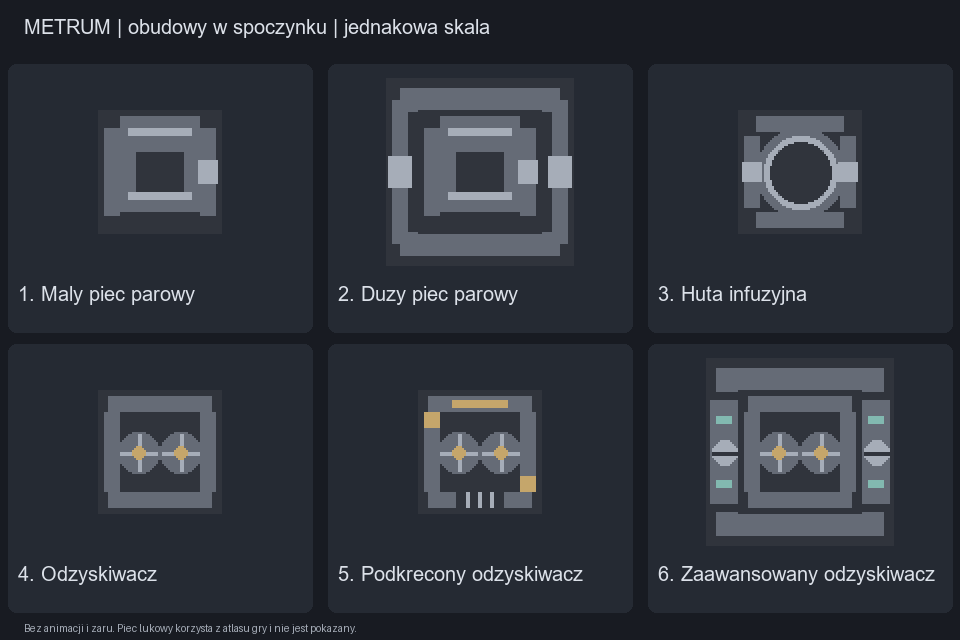
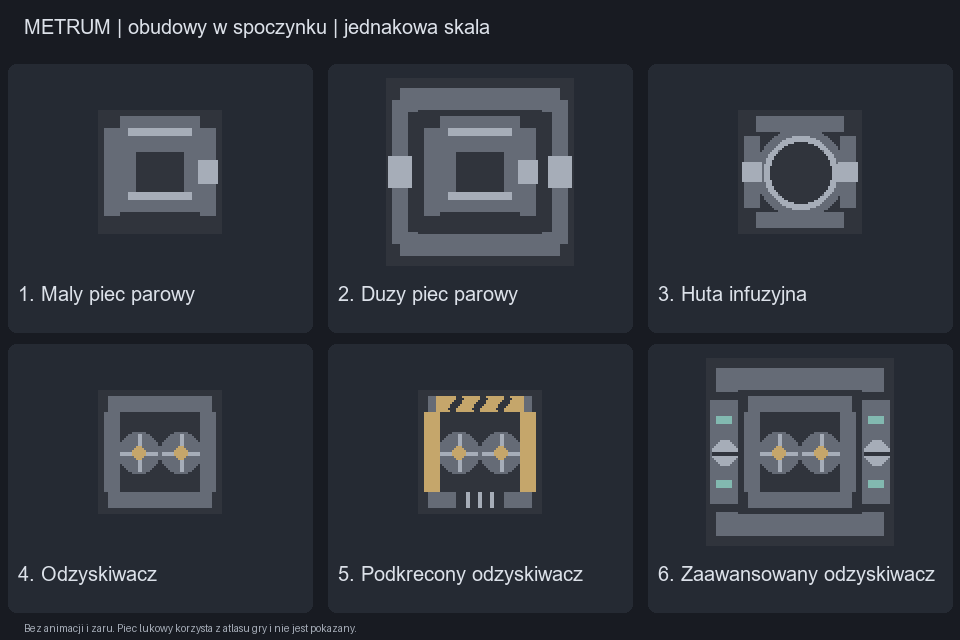
visual: strengthen overclocked salvager copper silhouette

Changed region(s): [[0.4375, 0.5938, 0.5625, 0.7812]]

diff --git a/src/metrum/world/DrawSalvager.java b/src/metrum/world/DrawSalvager.java
@@ -70,9 +70,15 @@ public class DrawSalvager extends DrawBlock {
         }
         if (overclocked) {
             Draw.color(accent);
-            Fill.rect(x - 6f, y + 4f, 2f, 2f);
-            Fill.rect(x + 6f, y - 4f, 2f, 2f);
-            Fill.rect(x, y + 6f, 7f, 1f);
+            Fill.rect(x - 6f, y, 2f, 10f);
+            Fill.rect(x + 6f, y, 2f, 10f);
+            Fill.rect(x, y + 6f, 11f, 2f);
+            Draw.color(edge);
+            Lines.stroke(0.8f);
+            for (int mark = -1; mark <= 1; mark++) {
+                float mx = x + mark * 3f;
+                Lines.line(mx - 0.6f, y + 5.2f, mx + 0.6f, y + 6.8f);
+            }
             Draw.color(edge);
             Fill.rect(x, y - 6f, 6f, 2.5f);
             Draw.color(bright);

diff --git a/tools/salvager_sprite.py b/tools/salvager_sprite.py
@@ -37,9 +37,12 @@ for x in (-2.7, 2.7):
     draw.line((cx, cy-9, cx, cy+9), fill="#a6adb8", width=2)
     draw.ellipse((cx-3, cy-3, cx+3, cy+3), fill="#c5a66b")
 if overclocked:
-    rect(-6, 4, 2, 2, "#c5a66b")
-    rect(6, -4, 2, 2, "#c5a66b")
-    rect(0, 6, 7, 1, "#c5a66b")
+    rect(-6, 0, 2, 10, "#c5a66b")
+    rect(6, 0, 2, 10, "#c5a66b")
+    rect(0, 6, 11, 2, "#c5a66b")
+    for x in (-3, 0, 3):
+        draw.line(((x-0.6+half)*4, (half-5.2)*4,
+                   (x+0.6+half)*4, (half-6.8)*4), fill="#30343c", width=3)
     rect(0, -6, 6, 2.5, "#30343c")
     for x in (-1.5, 0, 1.5):
         rect(x, -6, 0.5, 2, "#a6adb8")
